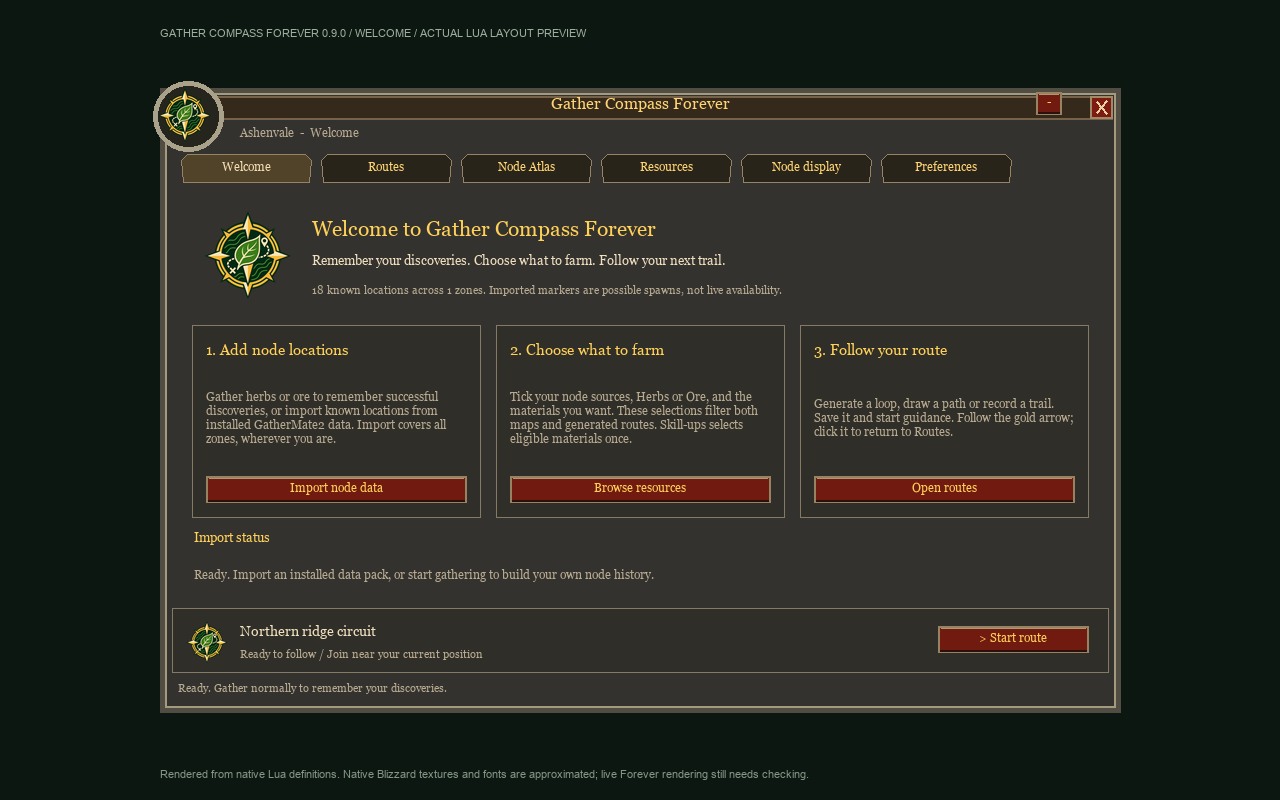
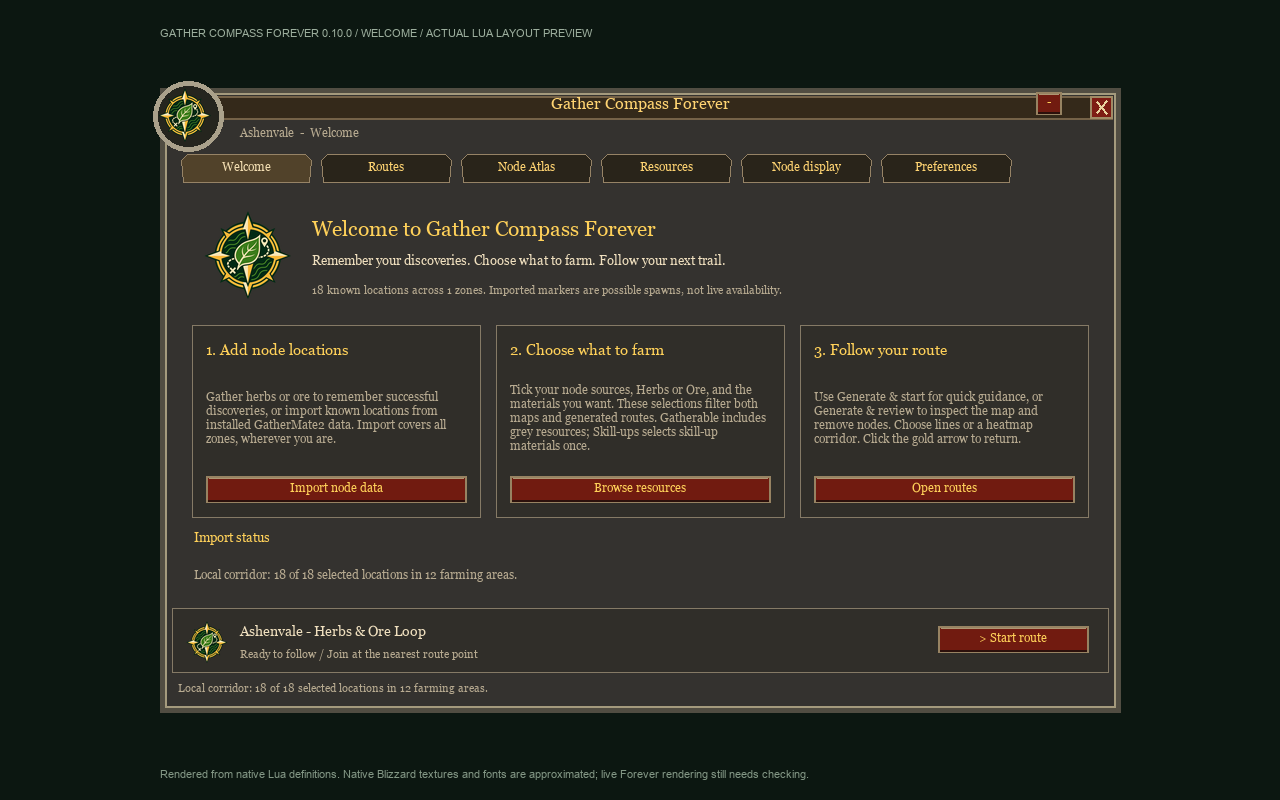
Document density farming workflow and prepare 0.10.0 release

diff --git a/tests/package.py b/tests/package.py
@@ -1,7 +1,7 @@
 from pathlib import Path
 import zipfile
 root = Path(__file__).resolve().parents[1]
-path = root / 'dist/GatherCompassForever-0.9.0.zip'
+path = root / 'dist/GatherCompassForever-0.10.0.zip'
 assert path.is_file(), 'Installable ZIP missing'
 with zipfile.ZipFile(path) as z:
     names = z.namelist()
@@ -11,7 +11,7 @@ with zipfile.ZipFile(path) as z:
     metadata = dict(line[3:].split(': ', 1) for line in toc.splitlines() if line.startswith('## '))
     assert metadata['Title'] == 'Gather Compass Forever'
     assert metadata['SavedVariables'] == 'GatherCompassForeverDB'
-    assert metadata['Version'] == '0.9.0'
+    assert metadata['Version'] == '0.10.0'
     assert metadata['X-License'] == 'MIT'
     assert metadata['IconTexture'] == r'Interface\AddOns\GatherCompassForever\Media\Icon'
     for texture in ['Icon', 'LogoSheet', 'EmptyEmblem', 'NodeRing', 'NodeSquare', 'GuideArrow', 'HeatBlob']:

diff --git a/tools/render_ui_preview.py b/tools/render_ui_preview.py
@@ -135,7 +135,7 @@ def render(scene):
         resolving.remove(k);boxes[k]=r;return r
     def visible(o):return o['shown'] is not False and (o['parent'] is None or ident(o['parent'])==0 or visible(o['parent']))
     im=Image.new('RGBA',(1280,800),'#0c1711');d=ImageDraw.Draw(im)
-    d.text((160,27),'GATHER COMPASS FOREVER 0.9.0 / '+scene.upper()+' / ACTUAL LUA LAYOUT PREVIEW',font=ImageFont.truetype('C:/Windows/Fonts/arial.ttf',11),fill='#9cae9d')
+    d.text((160,27),'GATHER COMPASS FOREVER 0.10.0 / '+scene.upper()+' / ACTUAL LUA LAYOUT PREVIEW',font=ImageFont.truetype('C:/Windows/Fonts/arial.ttf',11),fill='#9cae9d')
     fonts={}; text_report=[]
     def font(o):
         size=int(o['fontSize'] or 12);family='georgia.ttf' if 'FRIZ' in (o['fontPath'] or '') else 'arial.ttf';key=(family,size)

diff --git a/tools/package.py b/tools/package.py
@@ -14,7 +14,7 @@ for name in files:
     assert (root / name).is_file(), f'Missing package file: {name}'
 dist = root / 'dist'
 dist.mkdir(exist_ok=True)
-path = dist / 'GatherCompassForever-0.9.0.zip'
+path = dist / 'GatherCompassForever-0.10.0.zip'
 with zipfile.ZipFile(path, 'w', zipfile.ZIP_DEFLATED) as z:
     for name in files:
         z.write(root / name, 'GatherCompassForever/' + name)

diff --git a/README.md b/README.md
@@ -14,7 +14,7 @@ where resources grow, build farming routes and follow a clear in-game guide arro
 ![Tests](https://github.com/Red463/GatherCompassForever/actions/workflows/ci.yml/badge.svg)
 ![MIT license](https://img.shields.io/badge/license-MIT-green.svg)
 
-**Current version:** 0.9.0 ? **Client interface:** 16001 ? **Command:** `/gcf`
+**Current version:** 0.10.0 ? **Client interface:** 16001 ? **Command:** `/gcf`
 
 ## What it does
 
@@ -24,21 +24,21 @@ where resources grow, build farming routes and follow a clear in-game guide arro
   saved observations as a fallback. Repeated imports merge matching locations.
 - **Choose what to farm.** Filter by source, herbs/ore and individual materials, with
   shared checkboxes for maps and generated routes, a scrolling material list and
-  one-time skill-up material selection.
-- **Build routes your way.** Generate a resource-based loop, draw a custom route,
-  record a travelled path or drag existing waypoints on the world map.
-- **Follow the path.** World-map lines, minimap guidance and a smooth gold arrow show
-  the way. Optionally show the next resource, waypoint progress and lap number.
+  one-time Gatherable (including grey) or Skill-ups material selection.
+- **Generate a local corridor.** Start immediately, or review a large zone map and
+  remove individual nodes with undo. No save step is needed.
+- **Follow the path.** Choose thin lines or a soft heatmap corridor on the world map
+  and route sketch. A smooth gold arrow guides the same route. Optionally show the next resource, waypoint progress and lap number.
 - **Explore resources.** Browse a square item grid and view zones ranked by known
   node count, source-specific skill requirements and personal gather history.
 - **Tune map markers.** Use icons on the world map and icons, rings or squares on
   the minimap. Hide nearby minimap icons while retaining hollow outlines.
-- **Manage saved routes.** Use descriptive generated names, edit existing routes or
-  delete one through a named confirmation. A draggable minimap badge opens the panel.
+- **Review without losing history.** Removals affect the current plan only. Existing
+  saved routes and node history are preserved. A minimap badge opens the panel.
 
 ## Install
 
-1. Download `GatherCompassForever-0.9.0.zip` from
+1. Download `GatherCompassForever-0.10.0.zip` from
    [Releases](https://github.com/Red463/GatherCompassForever/releases/latest).
    Choose the addon ZIP asset rather than GitHub's automatic **Source code** ZIP.
 2. Close WoW and extract the `GatherCompassForever` folder into your Forever
@@ -47,6 +47,9 @@ where resources grow, build farming routes and follow a clear in-game guide arro
    `Interface/AddOns/GatherCompassForever/GatherCompassForever.toc`.
 4. Restart WoW, enable **Gather Compass Forever** in the AddOns list, then type
    `/gcf` or click the compass badge beside the minimap.
+
+Manual route creation, recording and the saved-route list are no longer exposed.
+Existing saved routes remain in your SavedVariables.
 
 When updating, replace the complete addon folder. **Keep SavedVariables** to retain
 routes, known locations and preferences. The addon is built for Forever's interface
@@ -81,11 +84,14 @@ scrolling and a scrollbar, with icons and skill-coloured names.
 
 ![Checkbox filters and a vertically scrolling material list](docs/images/filters.png)
 
-### Route library
+### Generate and review
 
-Choose materials, preview a saved circuit, then edit, open its map, delete or start it.
+Choose materials, then use **Generate & start** or **Generate & review**. Click a node
+to select it, then **Remove node** to update the corridor. **Undo removal** restores
+it. Scroll to zoom and right-drag empty map space to pan. Dim icons are outside the
+current local circuit; counts show the included and omitted locations.
 
-![Route library with material filters, route preview and management buttons](docs/images/routes.png)
+![Large map-backed route review with node selection, removal and undo](docs/images/routes.png)
 
 ### Resource catalogue and details
 
@@ -97,13 +103,15 @@ remain visible so you can plan what to seek next.
 
 ![Resource details with skill guidance, personal history and ranked zones](docs/images/resource-details.png)
 
-### Editing waypoints
+### Heatmap corridor
 
-**Edit path** opens the route's map. Drag a gold circle to move a waypoint, click
-empty map space to add one, then use **Save route** or **Route panel**. The saved
-route stays unchanged until you save. Numbers appear on selected or hovered handles.
+Select **Heatmap corridor** above the route sketch to replace the lines with a soft,
+warm band through the generated farming areas. It is a route view, rather than a
+live resource scanner. The arrow follows the same points; switching views does not
+regenerate the route. Minimap route lines are hidden in this view, while resource
+markers and the destination marker remain.
 
-![Map editing with circular waypoint handles and save/return controls](docs/images/waypoint-editing.png)
+![Soft density corridor over an illustrative map](docs/images/route-heatmap.png)
 
 ### Guide arrow
 
@@ -121,17 +129,18 @@ protection so a stationary player cannot repeatedly advance through a loop.
 
 1. Gather a few nodes or import node data from **Welcome**.
 2. In **Routes**, tick your node sources, gathering types and materials.
-3. Click **Generate** to create a named draft from matching current-zone locations.
-4. Review the route and add detours around terrain on **Edit on map**. Save it.
-5. Click **Start route**. Use the arrow, world map and minimap to follow the route.
-   Pause, skip or stop through the route panel.
+3. Click **Generate & start** for quick guidance, or **Generate & review** to inspect it.
+4. In review, select unwanted nodes and use **Remove node** or **Undo removal**.
+   Choose **Route lines** or **Heatmap corridor**, then **Start route**.
+5. Follow the arrow. Pause, skip or stop through the panel; click the arrow to reopen it.
 
-World-map paths use thin gold lines and appear only while following a route
-(including when paused) or editing its path. Selecting a saved route keeps its
-sketch in the panel; stopping or completing guidance clears its map lines.
+Path overlays appear while following (including when paused) or reviewing the current
+plan. Stopping or completing guidance clears them. Generation starts at the nearest
+selected local node and builds connected farming areas, rather than forcing a whole
+zone into one circuit. The displayed counts show when other areas are omitted.
 
 The **Node Atlas** provides per-resource location browsing, zone comparisons,
-resource-specific route drafts and nearest-location guidance. The separate
+resource-specific route review and nearest-location guidance. The separate
 **Resources** tab provides the full item catalogue, independent of your route filters.
 Clicking a ranked zone temporarily focuses that resource on the world map, subject
 to your shared checkbox filters. Closing the map restores its usual display.
@@ -153,9 +162,12 @@ The sidebar filters this addon's node markers on both maps and new route generat
 together. Tick **My discoveries**, **Imported locations**, **Herbs** and **Ore** in any
 combination, then tick individual materials. Unticking every source or type gives no
 matching nodes; it does not reset your choices. These selections do not change a
-saved route or interrupt guidance already running.
+current plan or interrupt guidance already running. A changed-selection message
+reminds you to generate again when you want the new choices applied.
 
-**All** selects all materials; untick it to clear the selection. **Skill-ups** selects
+**All** selects all materials; untick it to clear the selection. **Gatherable** selects
+known resources your current skill can gather, including grey resources and capped
+professions. **Skill-ups** selects
 known orange, yellow and green materials across matching known zones once. It excludes
 grey, too-difficult and unknown resources, and you can edit the result afterward.
 The selected materials do not change automatically when your profession skill rises.
@@ -164,6 +176,8 @@ The selected materials do not change automatically when your profession skill ri
 and minimap route visibility. Its three opacity sliders independently adjust
 world-map icons, minimap icons and minimap outlines from 0% to 100%. Changes apply
 immediately and are remembered. Navigation markers keep their own appearance.
+![Node appearance, difficulty colours and independent opacity controls](docs/images/node-display.png)
+
 **Preferences** controls arrival distance, arrow scale,
 optional labels and minimap-button visibility. Use `/gcf` to restore the minimap
 button if it is hidden.
@@ -180,9 +194,16 @@ Skill colours use **Classic reference data**, current profession rank and readab
 cap/bonus information. Unknown information stays neutral. Native tooltip inspection
 is optional, stored locally and does not automatically change the skill rules.
 
-Routes connect coordinates directly. They do not automatically avoid cliffs, water,
-walls or caves. Add detours where needed. Routes are single-zone and dense generated
-inputs/visuals are bounded for performance. Entering a waypoint's arrival radius
+Routes use nearby spatial groups and geometric connections of at most 450 yards,
+including their return path. Dense areas use representative actual spawn locations;
+the arrow does not visit every candidate individually. Disconnected or distant
+areas are omitted rather than joined across the zone.
+
+This is **not terrain pathfinding**: short connections can still cross cliffs, water,
+walls or caves. Move around obstacles, skip a difficult destination, remove an
+unwanted node, or regenerate from a better position. No third-party terrain engine
+or navigation data is bundled. Routes are single-zone and their inputs/visuals are
+bounded for performance. Entering a waypoint's arrival radius
 can advance the route without a harvest. The addon does not move your character or
 gather automatically, and it does not replace your native waypoint.
 

diff --git a/CHANGELOG.md b/CHANGELOG.md
@@ -1,5 +1,17 @@
 # Changelog
 
+## 0.10.0
+
+- Add one-time Gatherable material selection, including eligible grey resources and capped professions.
+- Replace the saved-route/manual creation workflow with Generate & start and Generate & review; preserve existing saved data.
+- Add a larger map-backed review with node selection, Remove node, Undo removal, mouse-wheel zoom and right-drag pan.
+- Add Lines and Heatmap corridor views of the same plan. Heat replaces world-map lines and suppresses minimap route lines.
+- Generate a bounded nearby farming corridor through representative spawn locations, with included/omitted counts and no long closing jump.
+- Fix the reproduced nearest-start then distant-next-leg transition; orient generated loops toward the nearer outgoing side.
+- Preserve pause state and lap display when a node removal rebuilds active guidance. Filter changes leave the active plan intact until regeneration.
+- Keep Welcome as the sole import page and update its introduction for the new workflow.
+- Keep MIT licensing and no new dependency. Geometry does not establish terrain passability; mountains, caves and walls may still need detours.
+
 ## 0.9.0
 
 - Replace node-source and gathering dropdowns with combinable checkboxes, including explicit empty selections.
